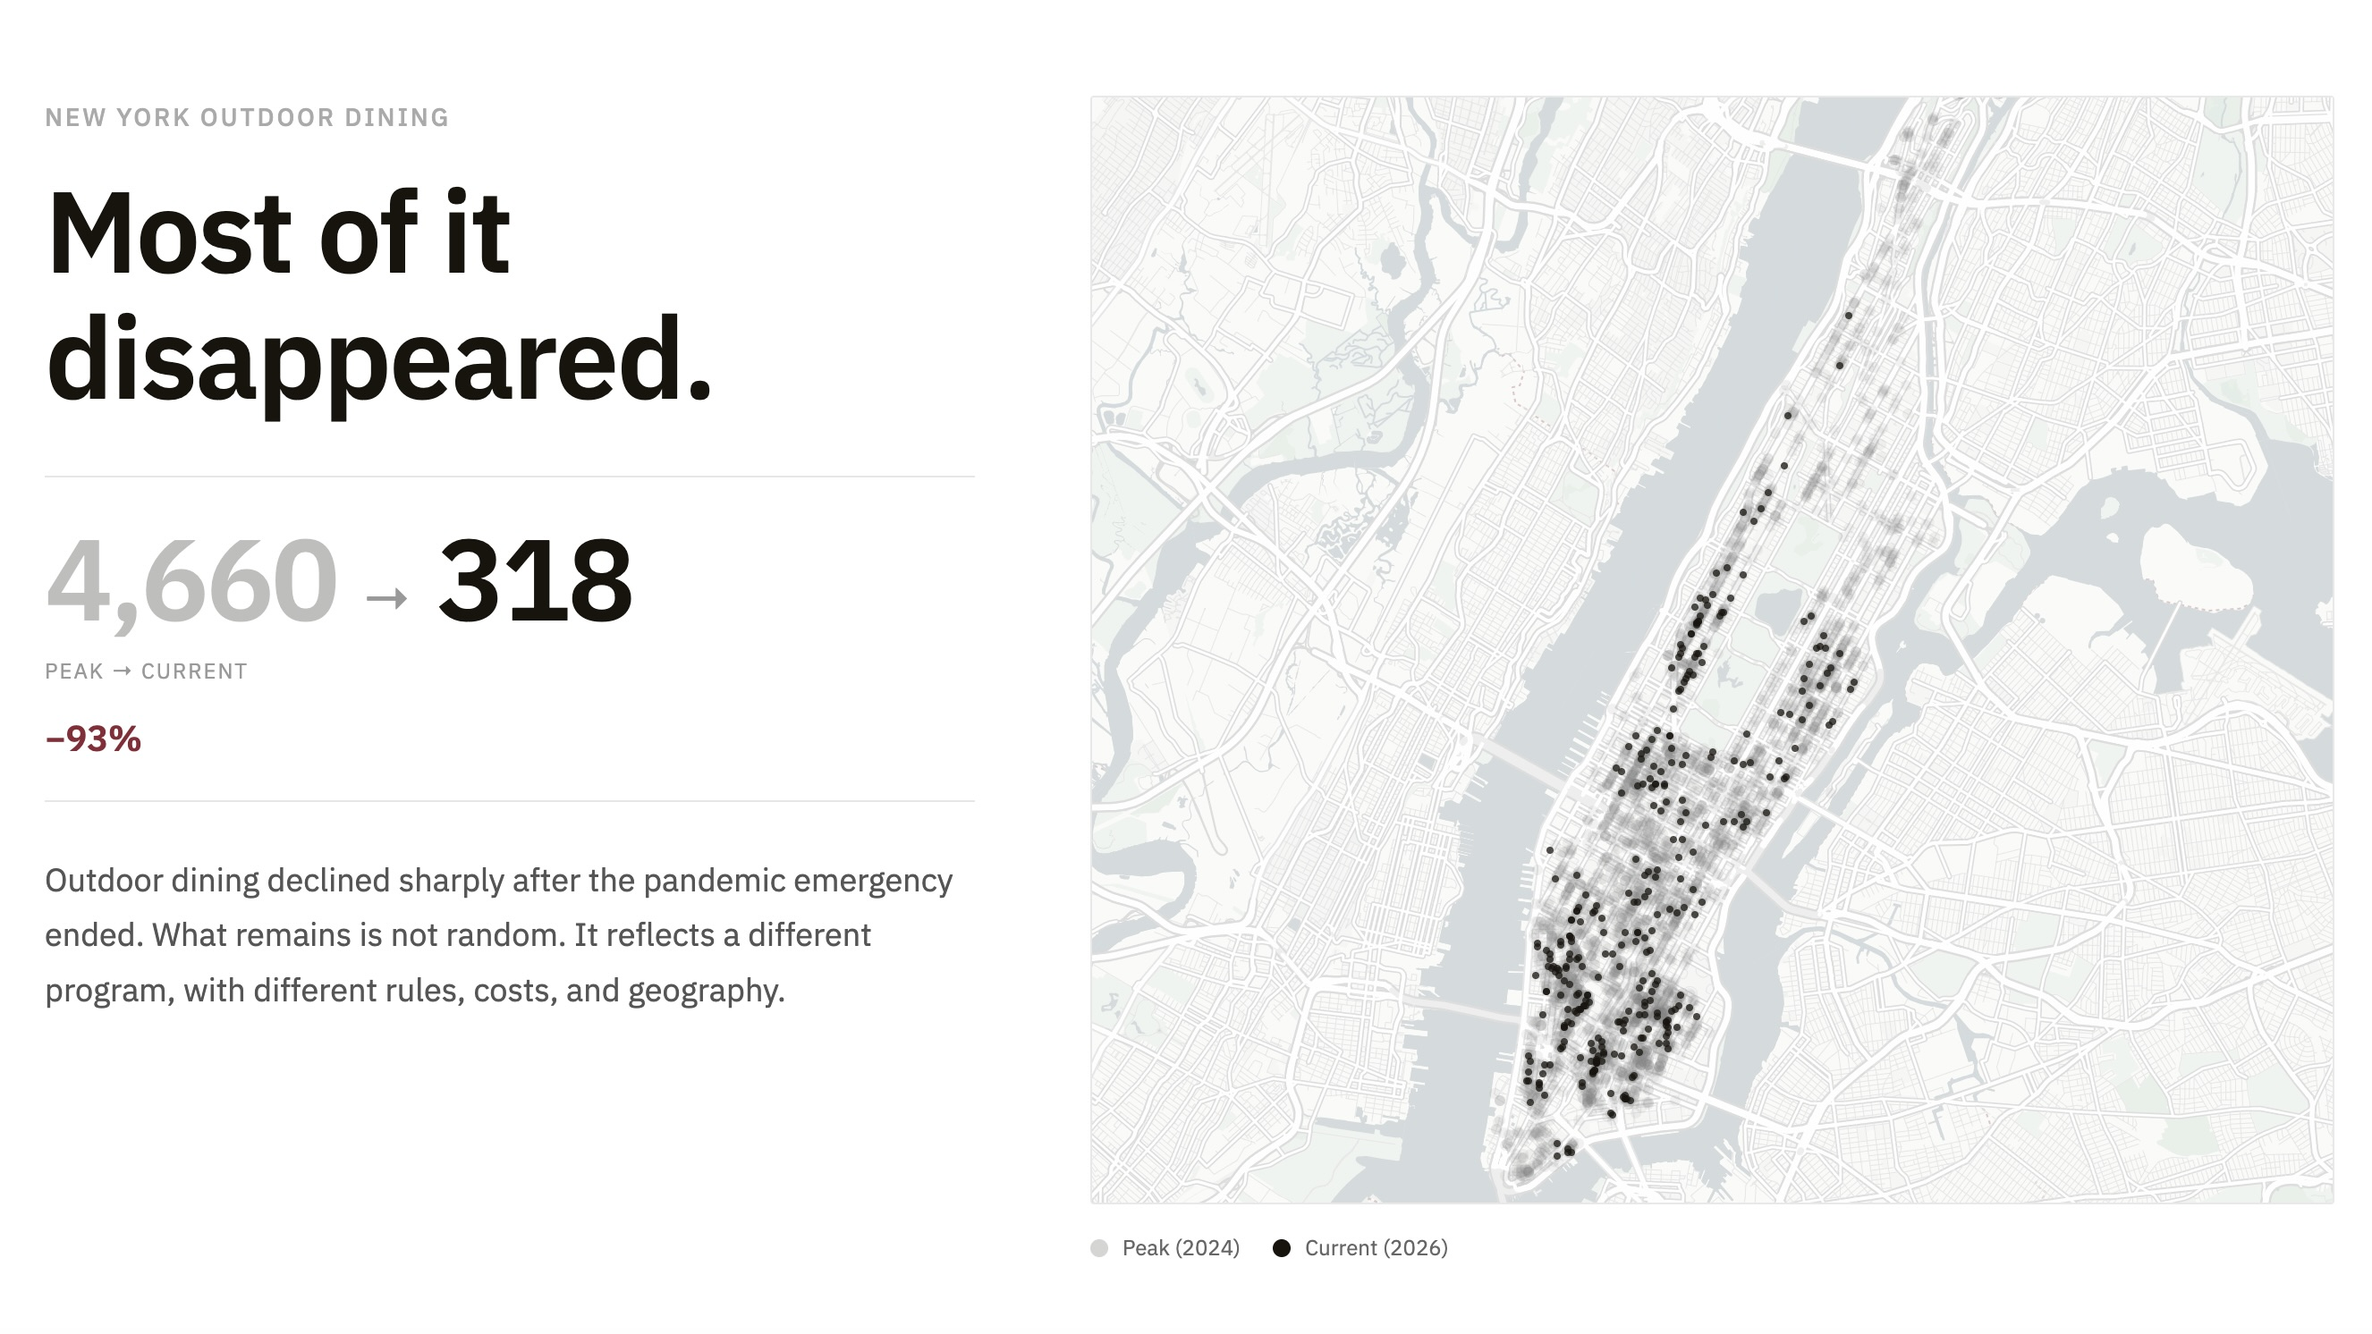
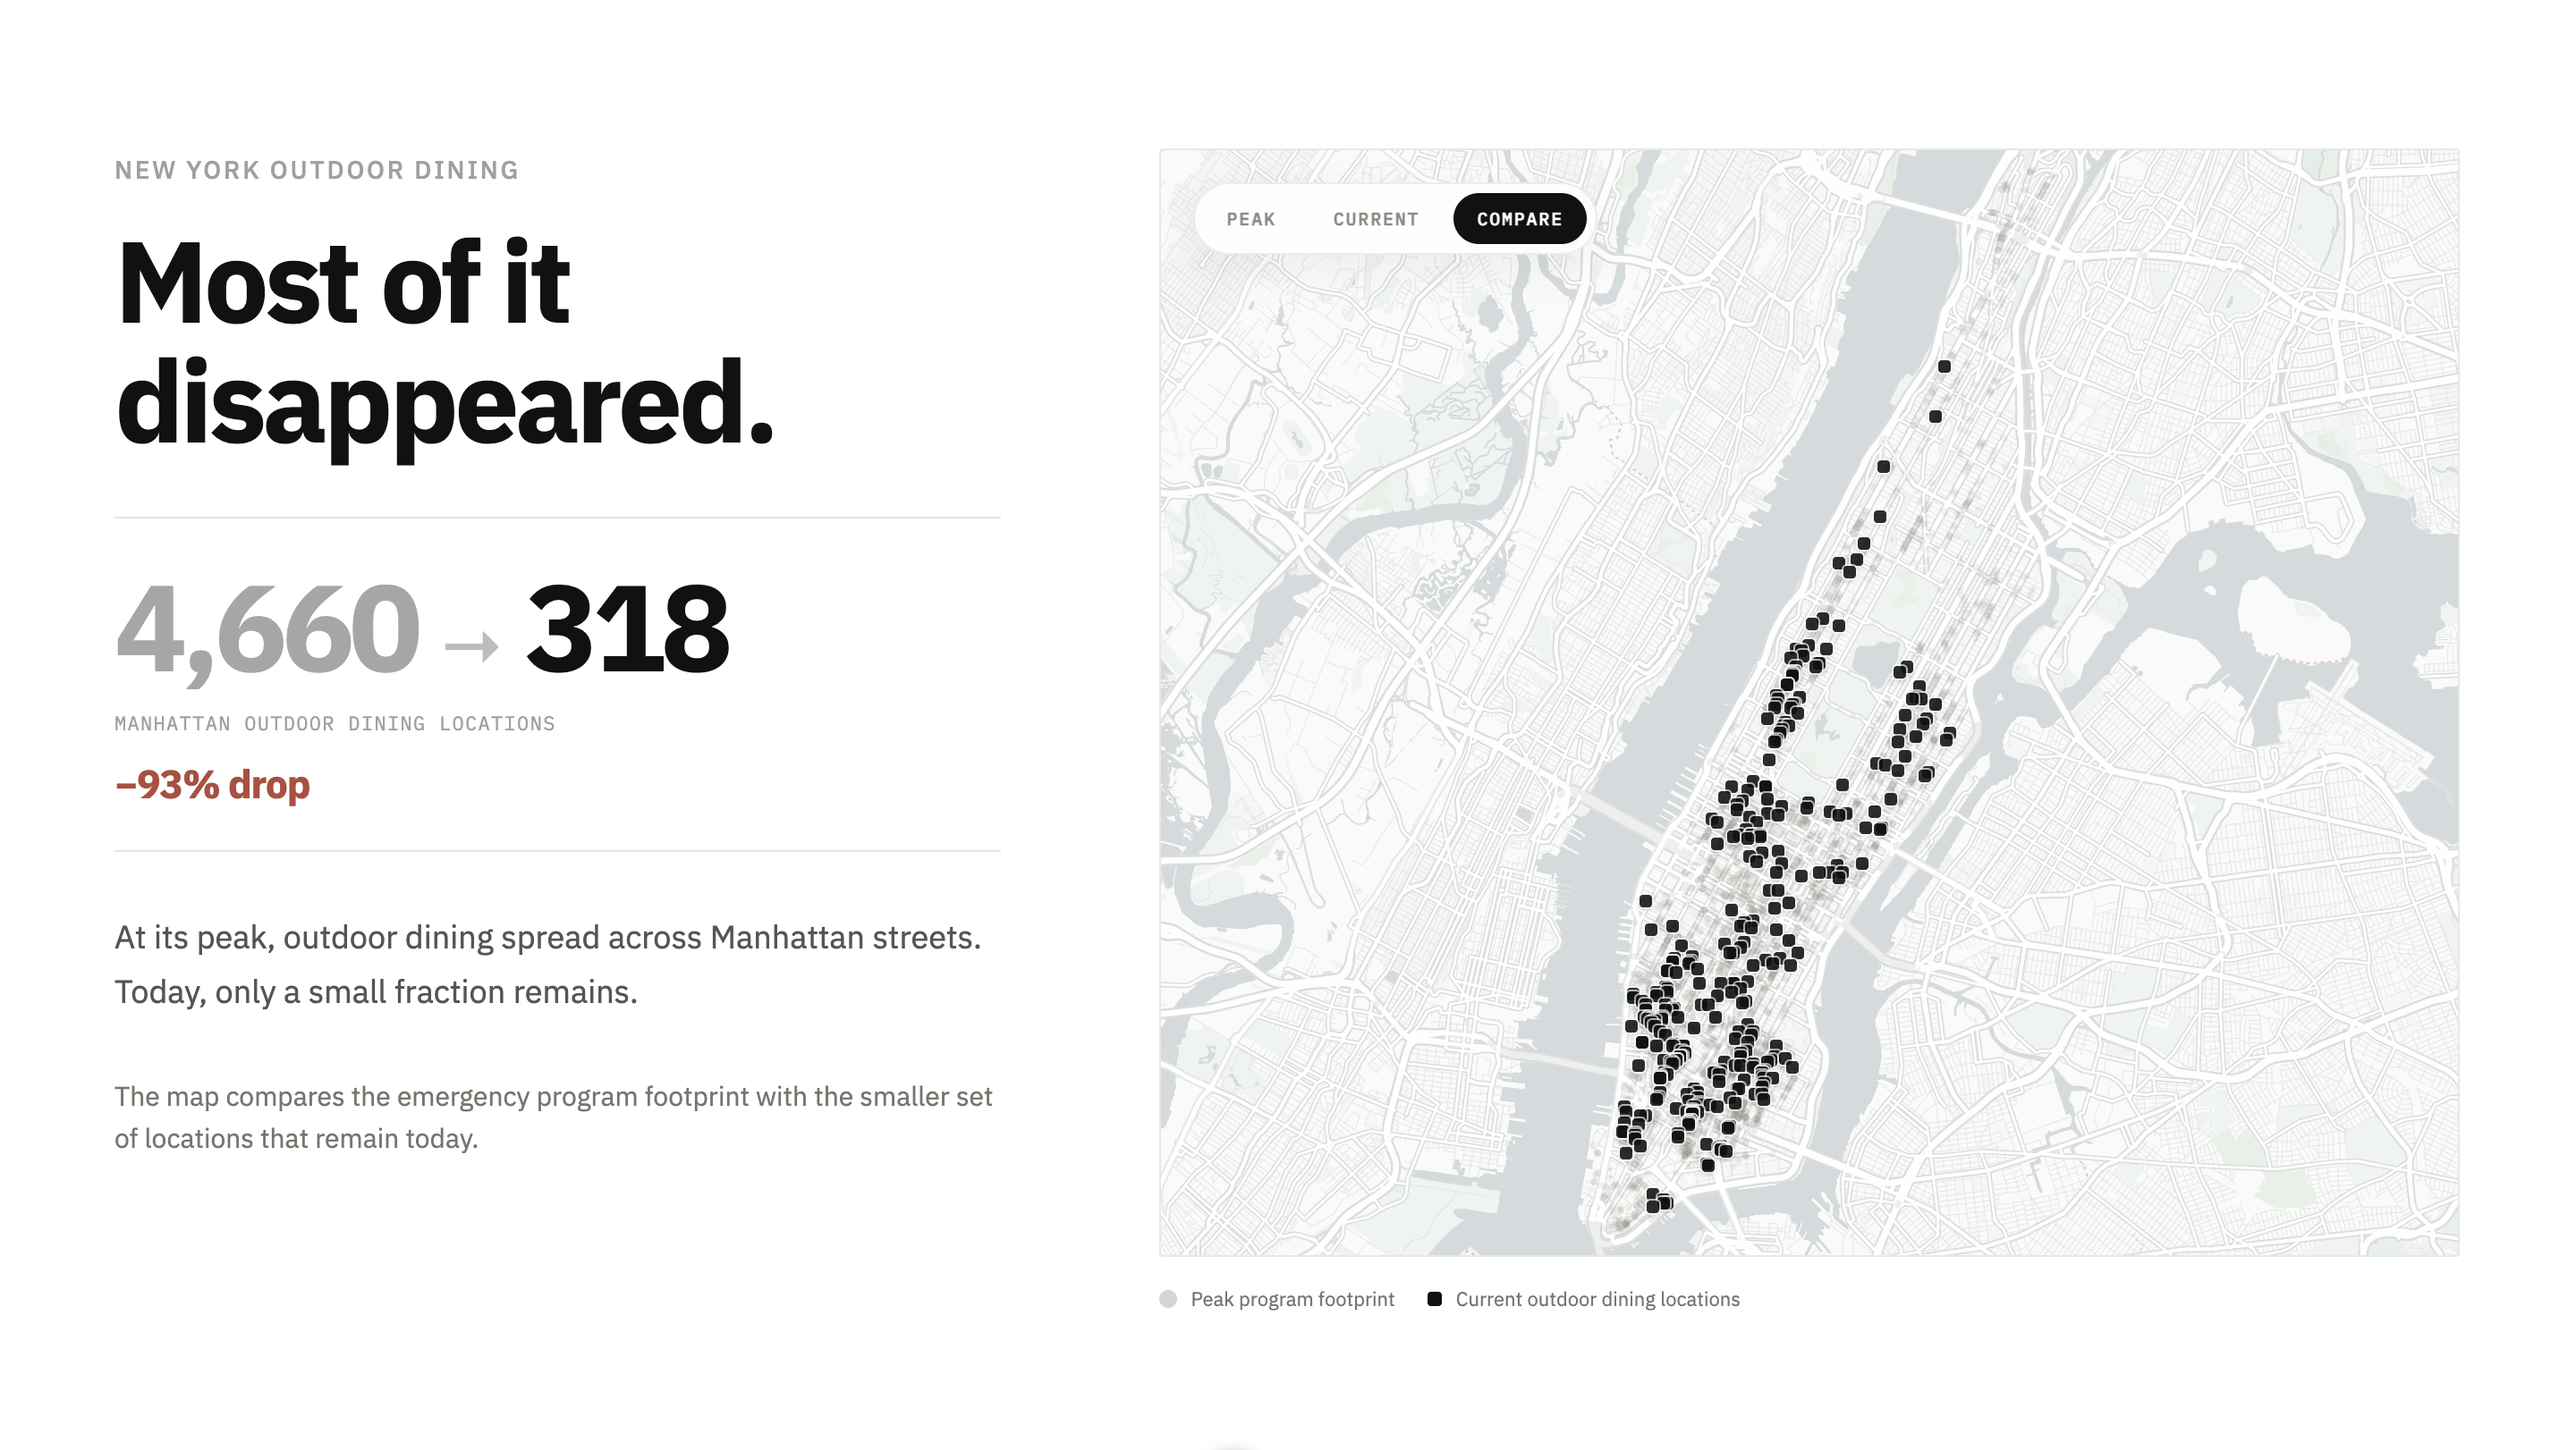
Add new preview images and remove outdated images; refactor text in CorridorGuideMap.vue and update font size in ReportedConflictChart.vue for improved readability; clean up style.css by removing unused editorial note styles.

diff --git a/vue-project/src/components/CorridorGuideMap.vue b/vue-project/src/components/CorridorGuideMap.vue
@@ -311,7 +311,7 @@ function selectImageById(id) {
       </div>
 
       <p class="s8-note">
-        Field photos by Saehun Kim. Columbus Avenue night photo courtesy of Nichos. Photos were taken after the March 2026 dataset snapshot and are used as field observations.
+        Field photos by Saehun Kim. Columbus Avenue night photo courtesy of Nichos. Photos were taken after the March 2026 dataset snapshot.
       </p>
     </div>
   </div>

diff --git a/vue-project/src/style.css b/vue-project/src/style.css
@@ -982,17 +982,6 @@ section {
   color: #3e3a36;
 }
 
-.editorial-note {
-  max-width: 720px;
-  margin: 32px 0 0;
-  padding-top: 18px;
-  border-top: 1px solid rgba(17, 17, 17, 0.08);
-  font-family: var(--sans, "IBM Plex Sans", sans-serif);
-  font-size: 15px;
-  line-height: 1.55;
-  color: #6e6862;
-}
-
 @media (max-width: 900px) {
   .comment-editorial {
     margin: 36px 0 54px;

diff --git a/vue-project/src/App.vue b/vue-project/src/App.vue
@@ -235,10 +235,6 @@ onMounted(() => {
               </blockquote>
             </div>
           </div>
-
-          <p class="editorial-note">
-            For some, outdoor dining brought street life. For others, it meant obstruction and lost public space.
-          </p>
         </div>
 
         <!-- 311 complaints section -->

diff --git a/vue-project/src/components/ReportedConflictChart.vue b/vue-project/src/components/ReportedConflictChart.vue
@@ -234,7 +234,7 @@ onBeforeUnmount(() => {
   margin-top: 12px;
   max-width: 760px;
   font-family: var(--mono, "IBM Plex Mono", monospace);
-  font-size: 9px;
+  font-size: 10px;
   line-height: 1.5;
   color: #aaa39c;
 }
